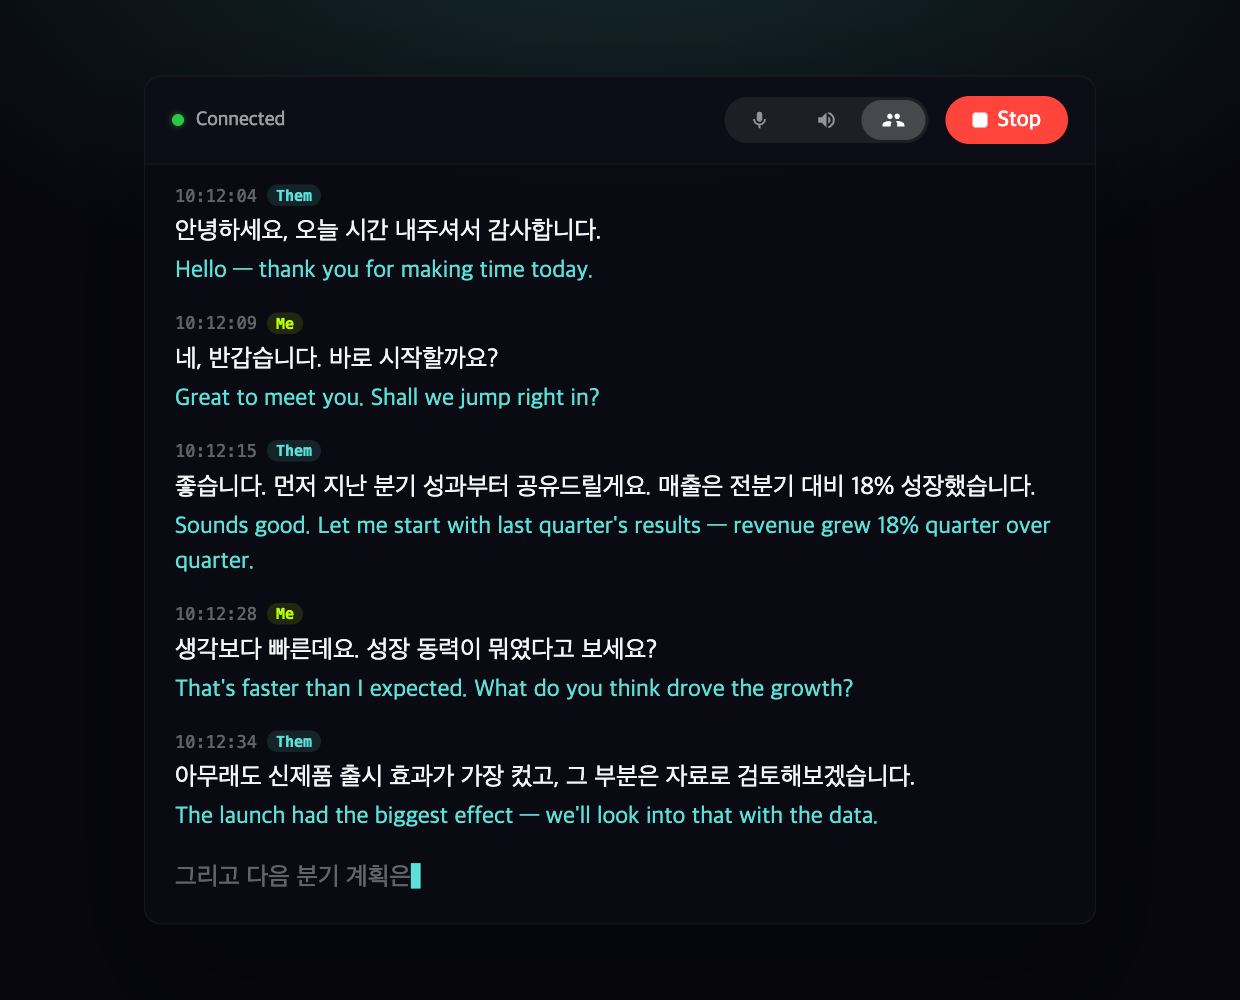
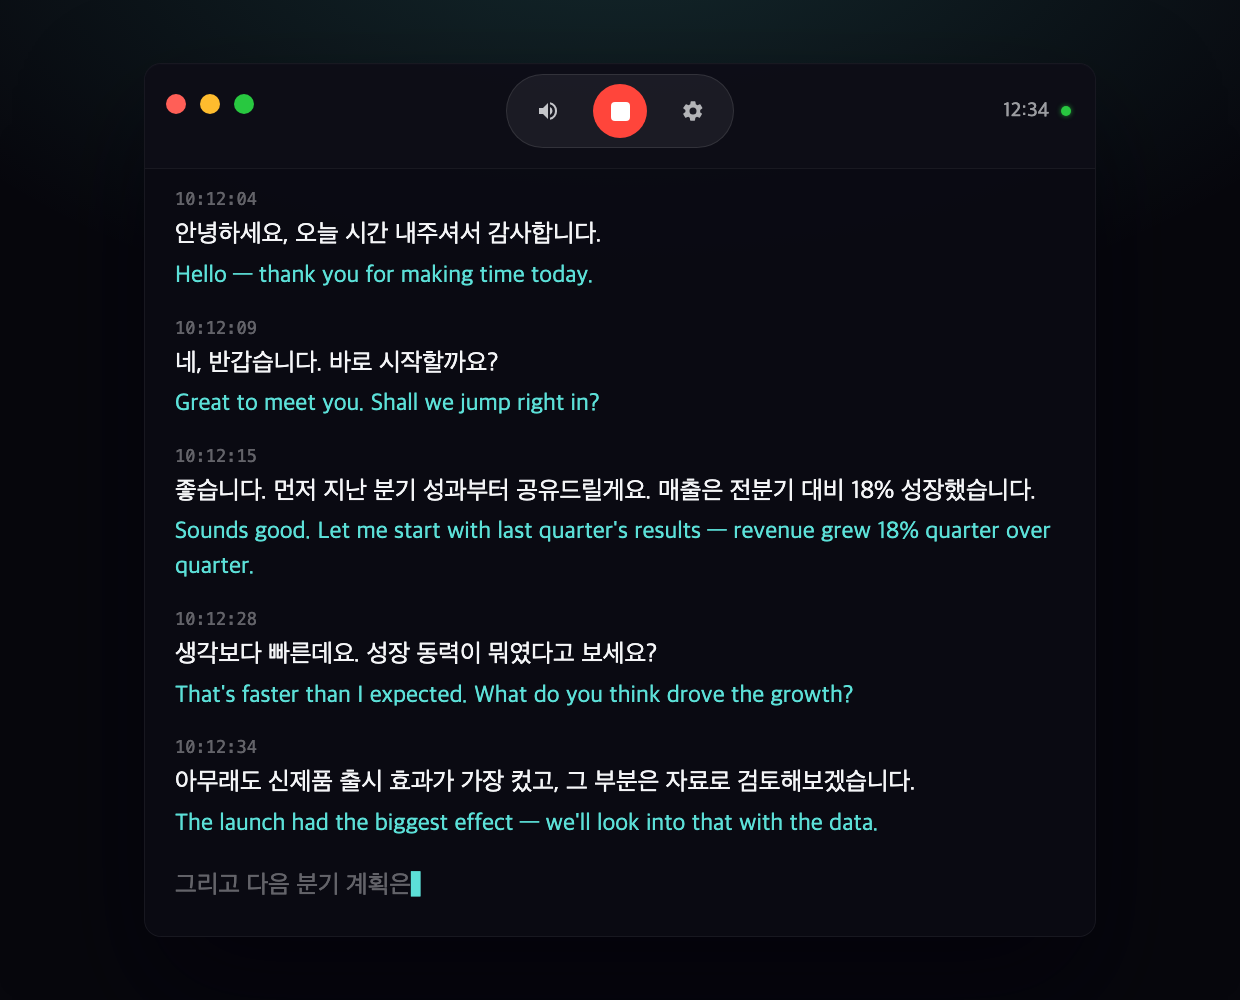
docs: refresh UI screenshots, mobile-friendly landing, drop Me/Them
The app header is now a centered control island (source · Start/Stop ·
options gear) with traffic lights and a live timer; the Me/Them
dual-capture feature no longer exists in code (single "main" channel,
no Utterance.speaker). Bring the docs and screenshots back in line.

- Regenerate app screenshot (docs/ + web/public/shots/) from a rewritten
  app.html mockup matching the current SwiftUI header — no speaker chips.
- Regenerate the session-viewer screenshot from a new web.html mockup of
  the current two-pane viewer (sidebar + transcript), replacing a stale
  single-column shot with chips.
- README: drop Me/Them, describe single-source capture, document the new
  Subtitle Mode / Always on Top / text-size controls; fix alt text.
- Landing page: mobile media queries so the header no longer overflows
  (hide the inline credit on phones, keep the wordmark on one line, stack
  the CTA + footer). Verified at a 390px viewport.
- CLAUDE.md: correct the pipeline + capture notes to single-source.

diff --git a/web/public/shots/app.html b/web/public/shots/app.html
@@ -10,14 +10,18 @@
      System fonts only — exactly what the app renders:
        sans  → SF Pro (Korean via Apple SD Gothic Neo)
        mono  → SF Mono
-     Colors are the literal Theme constants. */
+     Colors are the literal Theme constants. The header is the current
+     centered control island: macOS traffic lights on the left, a floating
+     capsule (source · Start/Stop · options gear) in the middle, and the
+     connection status + live session timer on the right. */
   :root {
     --lime: #BBFF00;            /* Theme.lime  0xBBFF00 */
     --cyan: #5CE0D8;            /* Theme.cyan  0x5CE0D8 */
     --text: #F4F5F7;            /* Theme.text  0xF4F5F7 */
     --text-meta: rgba(244,245,247,0.62);
     --text-dim:  rgba(244,245,247,0.38);
-    --stop: rgb(255,69,59);     /* Color(red:1.0 green:0.27 blue:0.23) */
+    --stop: rgb(255,69,59);     /* listening → Color(red:1.0 green:0.27 blue:0.23) */
+    --green: #28c840;           /* connectionState .connected */
     --sans: -apple-system, "SF Pro Text", "Apple SD Gothic Neo", sans-serif;
     --mono: "SF Mono", ui-monospace, Menlo, monospace;
   }
@@ -40,110 +44,129 @@
     position: relative;
     width: 952px;
     border-radius: 17px;                       /* cornerRadius 10 × 1.7 */
-    background: rgba(10,10,18,0.92);           /* Theme.glass */
+    background: rgba(10,10,18,0.92);           /* Theme.glass over the dark page */
     border: 1px solid rgba(255,255,255,0.06);
     box-shadow: 0 60px 120px rgba(3,2,10,0.6), inset 0 1px 0 rgba(255,255,255,0.05);
     overflow: hidden;
     color: var(--text);
   }
 
-  /* header: HStack spacing10, padding-h16, height52, glassHeader bg */
+  /* header: padding top6 / bottom12 / horiz14 (×1.7), glassHeader bg, 0.5px rule */
   .header {
-    display: flex; align-items: center; gap: 17px;
-    height: 88px; padding: 0 27px;
+    position: relative;
+    display: flex; align-items: center;
+    padding: 10px 24px 20px;
     background: rgba(14,14,24,0.8);            /* Theme.glassHeader */
     border-bottom: 1px solid rgba(255,255,255,0.05);
   }
-  .status { display: inline-flex; align-items: center; gap: 12px; }
-  .dot { width: 12px; height: 12px; border-radius: 50%; background: #28c840;
-         box-shadow: 0 0 6px rgba(40,200,64,0.7); }   /* connected → green */
-  .status span { font-family: var(--sans); font-size: 20px; font-weight: 500; color: var(--text-meta); }
-  .spacer { flex: 1; }
+  /* macOS traffic lights — reserved left zone (sideZoneWidth 96 × 1.7) */
+  .lights {
+    position: absolute; left: 21px; top: 30px;
+    display: flex; gap: 14px;
+  }
+  .lights i { width: 20px; height: 20px; border-radius: 50%; display: block; }
+  .lights .r { background: #ff5f57; }
+  .lights .y { background: #febc2e; }
+  .lights .g { background: #28c840; }
+  .side { width: 163px; flex: none; }         /* 96 × 1.7 */
 
-  /* source toggle: Capsule white@0.07, 3 segments 38×24 (×1.7) */
-  .toggle {
-    display: inline-flex; gap: 3px; padding: 3px;
-    background: rgba(255,255,255,0.07);
+  /* the floating capsule: source · Start/Stop · options gear, dead center */
+  .center { flex: 1; display: flex; justify-content: center; }
+  .island {
+    display: inline-flex; align-items: center; gap: 20px;
+    padding: 9px 15px;
+    background: rgba(255,255,255,0.06);
+    border: 1px solid rgba(255,255,255,0.10);
     border-radius: 999px;
   }
-  .seg {
-    width: 64px; height: 40px; border-radius: 999px;
+  .src, .gear {
+    width: 51px; height: 48px;                 /* 30×28 × 1.7 */
     display: grid; place-items: center;
   }
-  .seg svg { width: 22px; height: 22px; }
-  .seg.off svg { fill: rgba(244,245,247,0.55); }
-  .seg.on { background: rgba(255,255,255,0.18); }
-  .seg.on svg { fill: #fff; }
-
-  /* Stop button: red capsule, white stop.fill + "Stop" 13 semibold */
-  .stop {
-    display: inline-flex; align-items: center; gap: 10px;
-    height: 48px; padding: 0 27px;
-    background: var(--stop); border-radius: 999px;
-    color: #fff; font-family: var(--sans); font-size: 22px; font-weight: 600;
+  .src svg { width: 24px; height: 24px; fill: rgba(244,245,247,0.78); }
+  .gear svg { width: 24px; height: 24px; fill: rgba(244,245,247,0.70); }
+  /* Start/Stop hero: 32×32 circle (×1.7). Listening → red with stop.fill */
+  .ss {
+    width: 54px; height: 54px; border-radius: 50%;
+    background: var(--stop);
+    display: grid; place-items: center;
   }
-  .stop .sq { width: 15px; height: 15px; border-radius: 3px; background: #fff; }
+  .ss .sq { width: 19px; height: 19px; border-radius: 4px; background: #fff; }
+
+  /* status cluster (right): live timer + connection dot, right-aligned */
+  .status {
+    width: 163px; flex: none;
+    display: inline-flex; align-items: center; justify-content: flex-end; gap: 12px;
+  }
+  .timer {
+    font-family: var(--sans); font-size: 20px; font-weight: 500;
+    font-variant-numeric: tabular-nums;
+    color: var(--text-meta);
+  }
+  .live {
+    width: 10px; height: 10px; border-radius: 50%;
+    background: var(--green); box-shadow: 0 0 5px rgba(40,200,64,0.7);
+  }
 
   /* transcript: LazyVStack spacing14, padding-h18 top12 (×1.7) */
-  .pane { padding: 20px 30px 30px; }
+  .pane { padding: 20px 30px 34px; }
   .row { margin-bottom: 24px; }
   .row:last-child { margin-bottom: 0; }
-  .meta { display: flex; align-items: center; gap: 10px; margin-bottom: 7px; }
-  .ts { font-family: var(--mono); font-size: 17px; color: var(--text-dim); }
-  .chip {
-    font-family: var(--mono); font-size: 15px; font-weight: 600;
-    padding: 2px 9px; border-radius: 999px;
-  }
-  .chip.me   { color: var(--lime); background: rgba(187,255,0,0.12); }
-  .chip.them { color: var(--cyan); background: rgba(92,224,216,0.12); }
+  .ts { font-family: var(--mono); font-size: 17px; color: var(--text-dim); margin-bottom: 7px; }
   .ko { font-family: var(--sans); font-size: 25px; line-height: 1.5; color: var(--text); }
-  .en { font-family: var(--sans); font-size: 24px; line-height: 1.45; color: var(--cyan); margin-top: 3px; }
+  .en { font-family: var(--sans); font-size: 24px; line-height: 1.45; color: var(--cyan); margin-top: 5px; }
   .partial { font-family: var(--sans); font-size: 25px; color: var(--text-dim); }
-  .caret { color: var(--cyan); animation: none; }
+  .caret { color: var(--cyan); }
 </style>
 </head>
 <body>
   <div class="grain"></div>
   <div class="window">
     <div class="header">
-      <div class="status"><span class="dot"></span><span>Connected</span></div>
-      <div class="spacer"></div>
-      <div class="toggle">
-        <div class="seg off" title="Microphone">
-          <svg viewBox="0 0 24 24"><path d="M12 14a3 3 0 0 0 3-3V6a3 3 0 0 0-6 0v5a3 3 0 0 0 3 3zm5-3a5 5 0 0 1-10 0H5a7 7 0 0 0 6 6.9V21h2v-3.1A7 7 0 0 0 19 11h-2z"/></svg>
-        </div>
-        <div class="seg off" title="System Audio">
-          <svg viewBox="0 0 24 24"><path d="M3 9v6h4l5 5V4L7 9H3zm13.5 3a4.5 4.5 0 0 0-2.5-4v8a4.5 4.5 0 0 0 2.5-4zM14 3.2v2.1a7 7 0 0 1 0 13.4v2.1a9 9 0 0 0 0-17.6z"/></svg>
-        </div>
-        <div class="seg on" title="Mic + System — labels lines Me / Them">
-          <svg viewBox="0 0 24 24"><path d="M16 11a3 3 0 1 0-3-3 3 3 0 0 0 3 3zm-8 0a3 3 0 1 0-3-3 3 3 0 0 0 3 3zm0 2c-2.7 0-8 1.3-8 4v2h9v-2c0-1 .4-1.9 1.1-2.6A12 12 0 0 0 8 13zm8 0c-.4 0-.8 0-1.3.1A4.3 4.3 0 0 1 16 16v3h8v-2c0-2.7-5.3-4-8-4z"/></svg>
+      <div class="lights"><i class="r"></i><i class="y"></i><i class="g"></i></div>
+      <div class="side"></div>
+      <div class="center">
+        <div class="island">
+          <!-- source: speaker.wave.2.fill (capturing system / meeting audio) -->
+          <div class="src" title="System Audio — click for mic, right-click for a single app">
+            <svg viewBox="0 0 24 24"><path d="M3 9v6h4l5 5V4L7 9H3zm13.5 3a4.5 4.5 0 0 0-2.5-4v8a4.5 4.5 0 0 0 2.5-4zM14 3.2v2.1a7 7 0 0 1 0 13.4v2.1a9 9 0 0 0 0-17.6z"/></svg>
+          </div>
+          <!-- Start/Stop, centered hero — listening → red stop.fill -->
+          <div class="ss" title="Stop listening"><span class="sq"></span></div>
+          <!-- options gear: text size, Always on Top, Subtitle Mode, settings -->
+          <div class="gear" title="Options">
+            <svg viewBox="0 0 24 24"><path d="M19.14 12.94a7.49 7.49 0 0 0 .05-1.88l2.03-1.58a.5.5 0 0 0 .12-.64l-1.92-3.32a.5.5 0 0 0-.6-.22l-2.39.96a7.3 7.3 0 0 0-1.62-.94l-.36-2.54a.5.5 0 0 0-.5-.42h-3.84a.5.5 0 0 0-.5.42l-.36 2.54c-.59.24-1.13.56-1.62.94l-2.39-.96a.5.5 0 0 0-.6.22L2.27 8.84a.5.5 0 0 0 .12.64l2.03 1.58a7.49 7.49 0 0 0 0 1.88l-2.03 1.58a.5.5 0 0 0-.12.64l1.92 3.32a.5.5 0 0 0 .6.22l2.39-.96c.49.38 1.03.7 1.62.94l.36 2.54a.5.5 0 0 0 .5.42h3.84a.5.5 0 0 0 .5-.42l.36-2.54c.59-.24 1.13-.56 1.62-.94l2.39.96a.5.5 0 0 0 .6-.22l1.92-3.32a.5.5 0 0 0-.12-.64l-2.03-1.58zM12 15.5a3.5 3.5 0 1 1 0-7 3.5 3.5 0 0 1 0 7z"/></svg>
+          </div>
         </div>
       </div>
-      <div class="stop"><span class="sq"></span>Stop</div>
+      <div class="status">
+        <span class="timer">12:34</span>
+        <span class="live"></span>
+      </div>
     </div>
     <div class="pane">
       <div class="row">
-        <div class="meta"><span class="ts">10:12:04</span><span class="chip them">Them</span></div>
+        <div class="ts">10:12:04</div>
         <div class="ko">안녕하세요, 오늘 시간 내주셔서 감사합니다.</div>
         <div class="en">Hello — thank you for making time today.</div>
       </div>
       <div class="row">
-        <div class="meta"><span class="ts">10:12:09</span><span class="chip me">Me</span></div>
+        <div class="ts">10:12:09</div>
         <div class="ko">네, 반갑습니다. 바로 시작할까요?</div>
         <div class="en">Great to meet you. Shall we jump right in?</div>
       </div>
       <div class="row">
-        <div class="meta"><span class="ts">10:12:15</span><span class="chip them">Them</span></div>
+        <div class="ts">10:12:15</div>
         <div class="ko">좋습니다. 먼저 지난 분기 성과부터 공유드릴게요. 매출은 전분기 대비 18% 성장했습니다.</div>
         <div class="en">Sounds good. Let me start with last quarter's results — revenue grew 18% quarter over quarter.</div>
       </div>
       <div class="row">
-        <div class="meta"><span class="ts">10:12:28</span><span class="chip me">Me</span></div>
+        <div class="ts">10:12:28</div>
         <div class="ko">생각보다 빠른데요. 성장 동력이 뭐였다고 보세요?</div>
         <div class="en">That's faster than I expected. What do you think drove the growth?</div>
       </div>
       <div class="row">
-        <div class="meta"><span class="ts">10:12:34</span><span class="chip them">Them</span></div>
+        <div class="ts">10:12:34</div>
         <div class="ko">아무래도 신제품 출시 효과가 가장 컸고, 그 부분은 자료로 검토해보겠습니다.</div>
         <div class="en">The launch had the biggest effect — we'll look into that with the data.</div>
       </div>

diff --git a/web/public/shots/web.html b/web/public/shots/web.html
@@ -1,0 +1,83 @@
+<!doctype html>
+<html lang="en">
+<head>
+<meta charset="utf-8">
+<meta name="viewport" content="width=device-width, initial-scale=1">
+<title>Maldari — session viewer render</title>
+<!-- Faithful reproduction of the live session viewer (web/src/index.js
+     appShell → shell2): session sidebar on the left, the selected
+     transcript on the right. Uses the real production stylesheet and fonts,
+     so the render matches https://maldari.johnnywon.com/app exactly. Rows are
+     timestamp · Korean · English — no speaker chips (single-source). -->
+<link rel="preconnect" href="https://fonts.googleapis.com">
+<link rel="preconnect" href="https://fonts.gstatic.com" crossorigin>
+<link href="https://fonts.googleapis.com/css2?family=Fraunces:opsz,wght@9..144,400;9..144,600&family=Gowun+Batang:wght@400;700&family=IBM+Plex+Mono:wght@400;500&family=IBM+Plex+Sans+KR:wght@400;500&display=swap" rel="stylesheet">
+<link rel="stylesheet" href="../maldari.css">
+</head>
+<body class="appview">
+<div class="shell2">
+  <aside class="side">
+    <a class="wordmark" href="/">말다리<span>Maldari</span></a>
+    <div class="side-list">
+      <div class="side-day">2026-06-11</div>
+      <a class="side-item on" href="#">
+        <span class="it">10:12 AM</span><span class="il">42 lines</span><span class="id">18 min</span>
+      </a>
+      <a class="side-item" href="#">
+        <span class="it">9:02 AM</span><span class="il">16 lines</span><span class="id">7 min</span>
+      </a>
+      <div class="side-day">2026-06-10</div>
+      <a class="side-item" href="#">
+        <span class="it">4:30 PM</span><span class="il">88 lines</span><span class="id">41 min</span>
+      </a>
+      <a class="side-item" href="#">
+        <span class="it">11:15 AM</span><span class="il">23 lines</span><span class="id">12 min</span>
+      </a>
+    </div>
+    <div class="side-foot"><a href="/logout">log out</a></div>
+  </aside>
+  <main class="viewer">
+    <header class="vbar">
+      <h1 class="vtitle">10:12 AM<span class="vday">2026-06-11</span></h1>
+      <div class="seg" id="viewseg">
+        <button class="on" data-view="stack">Stacked</button>
+        <button data-view="cols">Columns</button>
+      </div>
+      <a class="dl" href="#" download>download .md</a>
+    </header>
+    <div class="rows">
+      <div class="row">
+        <div class="ts">10:12:04</div>
+        <div class="ko">안녕하세요, 오늘 시간 내주셔서 감사합니다.</div>
+        <div class="en">Hello — thank you for making time today.</div>
+      </div>
+      <div class="row">
+        <div class="ts">10:12:09</div>
+        <div class="ko">네, 반갑습니다. 바로 시작할까요?</div>
+        <div class="en">Great to meet you. Shall we jump right in?</div>
+      </div>
+      <div class="row">
+        <div class="ts">10:12:15</div>
+        <div class="ko">좋습니다. 먼저 지난 분기 성과부터 공유드릴게요. 매출은 전분기 대비 18% 성장했고, 신규 고객사가 마흔 곳 늘었습니다.</div>
+        <div class="en">Sounds good. Let me start with last quarter's results — revenue grew 18% quarter over quarter, and we added forty new customers.</div>
+      </div>
+      <div class="row">
+        <div class="ts">10:12:28</div>
+        <div class="ko">생각보다 빠른데요. 성장 동력이 뭐였다고 보세요?</div>
+        <div class="en">That's faster than I expected. What do you think drove the growth?</div>
+      </div>
+      <div class="row">
+        <div class="ts">10:12:34</div>
+        <div class="ko">아무래도 신제품 출시 효과가 가장 컸고, 그 부분은 자료로 자세히 검토해보겠습니다.</div>
+        <div class="en">The new product launch had the biggest effect — we'll look into that in detail with the data.</div>
+      </div>
+      <div class="row">
+        <div class="ts">10:12:47</div>
+        <div class="ko">좋네요. 그럼 다음 분기 목표도 같이 잡아보죠.</div>
+        <div class="en">Sounds great. Then let's set next quarter's targets together too.</div>
+      </div>
+    </div>
+  </main>
+</div>
+</body>
+</html>

diff --git a/web/public/index.html b/web/public/index.html
@@ -146,6 +146,31 @@
   @media (prefers-reduced-motion: reduce) {
     * { animation: none !important; transition: none !important; }
   }
+
+  /* ── phones & small tablets ──────────────────────────────────────────
+     The header nav is the one thing that breaks narrow: the long
+     "built by johnnywon.com" credit pushes the row past the viewport and
+     squeezes the wordmark into a vertical stack. Keep the wordmark on one
+     line, drop the credit up top (it still lives in the footer), and let
+     the remaining links sit tight. */
+  .land .bar .wordmark { white-space: nowrap; }
+  @media (max-width: 640px) {
+    .land .bar {
+      padding: 18px 20px;
+      align-items: center;
+      gap: 14px;
+    }
+    .land .bar nav { gap: 18px; font-size: 12px; }
+    .land .bar nav .madeby { display: none; }   /* kept in the footer */
+    .hero { padding-top: clamp(30px, 6vh, 60px); }
+    .sub { font-size: 16.5px; margin-top: 22px; }
+    .notes { margin-top: 44px; gap: 32px; }
+  }
+  @media (max-width: 480px) {
+    .cta { flex-direction: column; align-items: stretch; gap: 12px; }
+    .cta .btn { width: 100%; justify-content: center; padding: 15px 22px; }
+    .land .foot { flex-direction: column; gap: 12px; }
+  }
 </style>
 </head>
 <body class="land">
@@ -178,7 +203,7 @@
 <section class="stage">
   <figure class="shot">
     <img src="/shots/maldari-app.png"
-         alt="The Maldari transcript window — live Korean with English beneath each line, labeled Me and Them"
+         alt="The Maldari transcript window — live Korean with English beneath each line, a centered control island over a glassy panel"
          width="952" loading="lazy">
   </figure>
   <div class="notes">

diff --git a/CLAUDE.md b/CLAUDE.md
@@ -2,7 +2,7 @@
 
 SwiftPM app in `Translator/` (no xcodeproj; target keeps the Translator name,
 the product/bundle is Maldari.app). Pipeline:
-audio capture (mic/system/dual) → RTZR streaming STT (WebSocket) → Claude
+audio capture (mic / system / single-app) → RTZR streaming STT (WebSocket) → Claude
 Haiku translation (SSE) → TranscriptStore → SwiftUI transcript panel →
 SessionRecorder (disk) → CloudSyncService (your Worker).
 
@@ -55,13 +55,15 @@ the session recording.
   permanently (the historical "translations stopped after ~38 min" bug).
 - `TranslationQueue` runs 2 jobs concurrently, FIFO start order. The strict
   serial contract is still tested at `maxConcurrent: 1`.
+- Capture is single-source: one of mic, all system audio, or a single app
+  (`AudioSourceSelection`). `channelSpecs(for:)` always returns one `"main"`
+  channel, so the transcript is one stream with no speaker attribution
+  (`Utterance` has no `speaker` field; `UtteranceRow` renders timestamp /
+  Korean / English only). The generic multi-channel scaffolding is still in
+  place for a future dual-capture mode — `PipelineController.channelIDStride`
+  (1M-apart id bands so per-stream seqs stay unique) and the `channel` field
+  ("mic"/"system"/"main") on per-stream diagnostics — but nothing currently
+  spawns a second channel.
 - RTZR streaming STT does NOT support speaker diarization (batch-only via
-  `use_diarization`). Speaker attribution is per-channel: the "Mic + System"
-  (`.dual`) source runs two captures + two RTZR streams and labels mic
-  finals "Me", system finals "Them" (`Utterance.speaker`). Each channel's
-  utterance ids live in their own band (`PipelineController.channelIDStride`,
-  1M apart) because every RTZR stream's seq starts at 0; rows merge
-  chronologically by utterance start time (final arrival − duration).
-  Per-stream diagnostics carry a `channel` field ("mic"/"system"/"main").
-  Multi-speaker breakdown of the system-audio side would need post-meeting
-  batch re-processing (phase 2, not built).
+  `use_diarization`); multi-speaker breakdown would need post-meeting batch
+  re-processing (not built).

diff --git a/README.md b/README.md
@@ -9,17 +9,21 @@ happens and mirrored to your own private website as dated markdown.
 
 **Product page:** [maldari.johnnywon.com](https://maldari.johnnywon.com)
 
-![The Maldari transcript window — live Korean with streamed English beneath, Me/Them speaker labels, floating glass over your desktop](docs/screenshot-app.png)
+![The Maldari transcript window — live Korean with streamed English beneath each line, a centered control island, floating glass over your desktop](docs/screenshot-app.png)
 
 ## What it does
 
-- **Any voice in the room** — capture the mic, all system audio, or one
-  specific app (Zoom, Meet, Teams) via right-click. "Mic + System" captures
-  both and labels every line **Me** or **Them**.
+- **Any voice in the room** — capture your mic or all system audio with a
+  click, or right-click the source button to grab one specific app (Zoom,
+  Meet, Teams).
 - **Translation that keeps its word** — Claude renders business Korean into
   natural English and preserves commitment level (검토해보겠습니다 stays
   "we'll look into it", never "we will do it"). Filler (어/음/그) is
   recognized and skipped, not narrated.
+- **Read it your way** — **Subtitle Mode** floats the latest lines as captions
+  pinned to the top or bottom of your screen (caption size and color are
+  yours, English optional); **Always on Top** keeps the window above
+  everything else; the options gear scales the transcript text on the fly.
 - **Nothing is ever lost** — every finalized line appends to disk the moment
   it lands; a rolling markdown snapshot and cloud sync mean a crash, restart,
   or closed laptop can't eat the meeting.